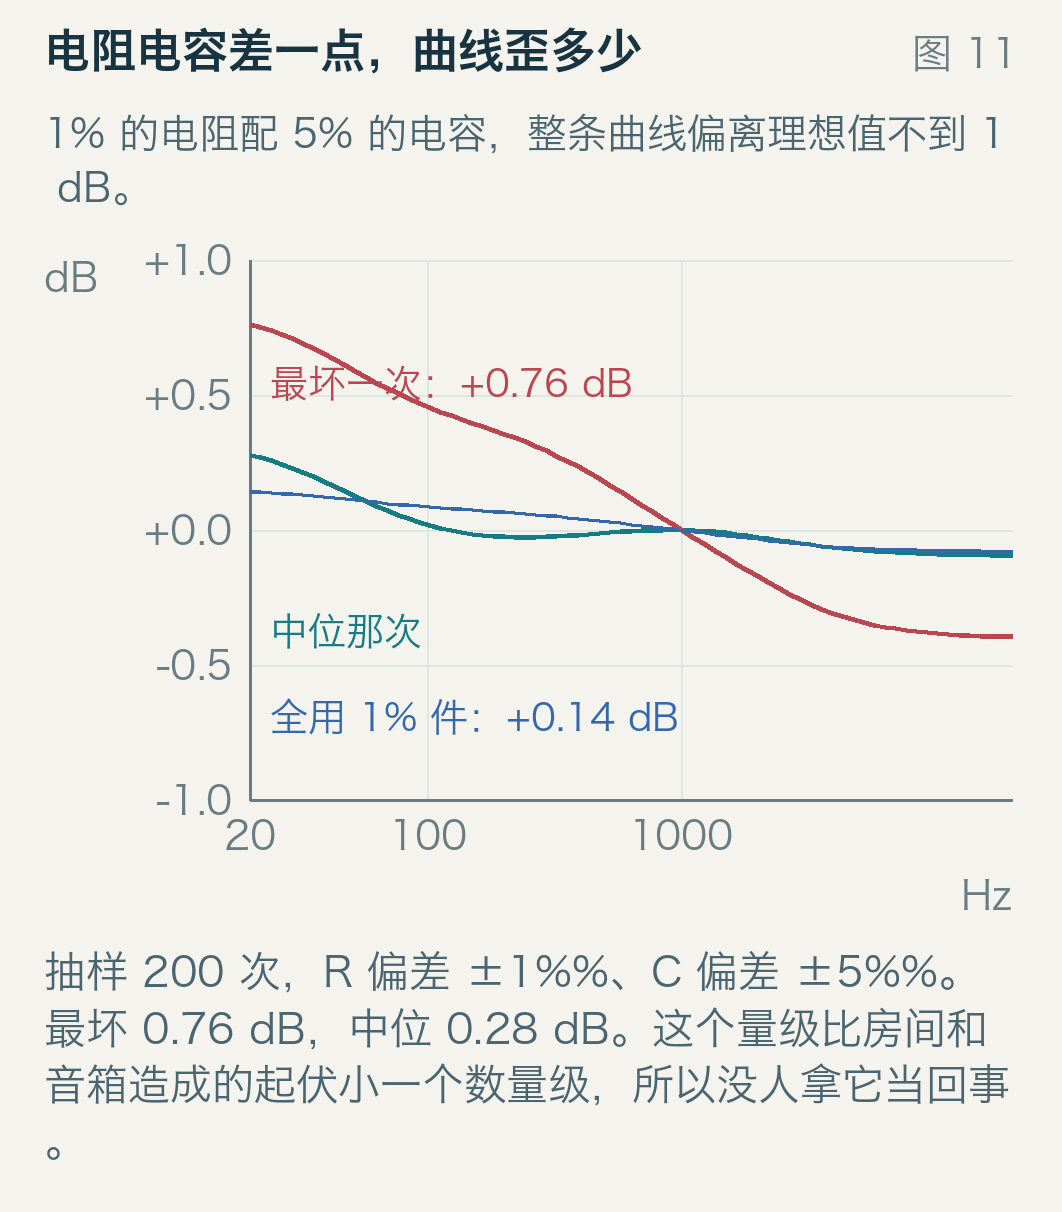
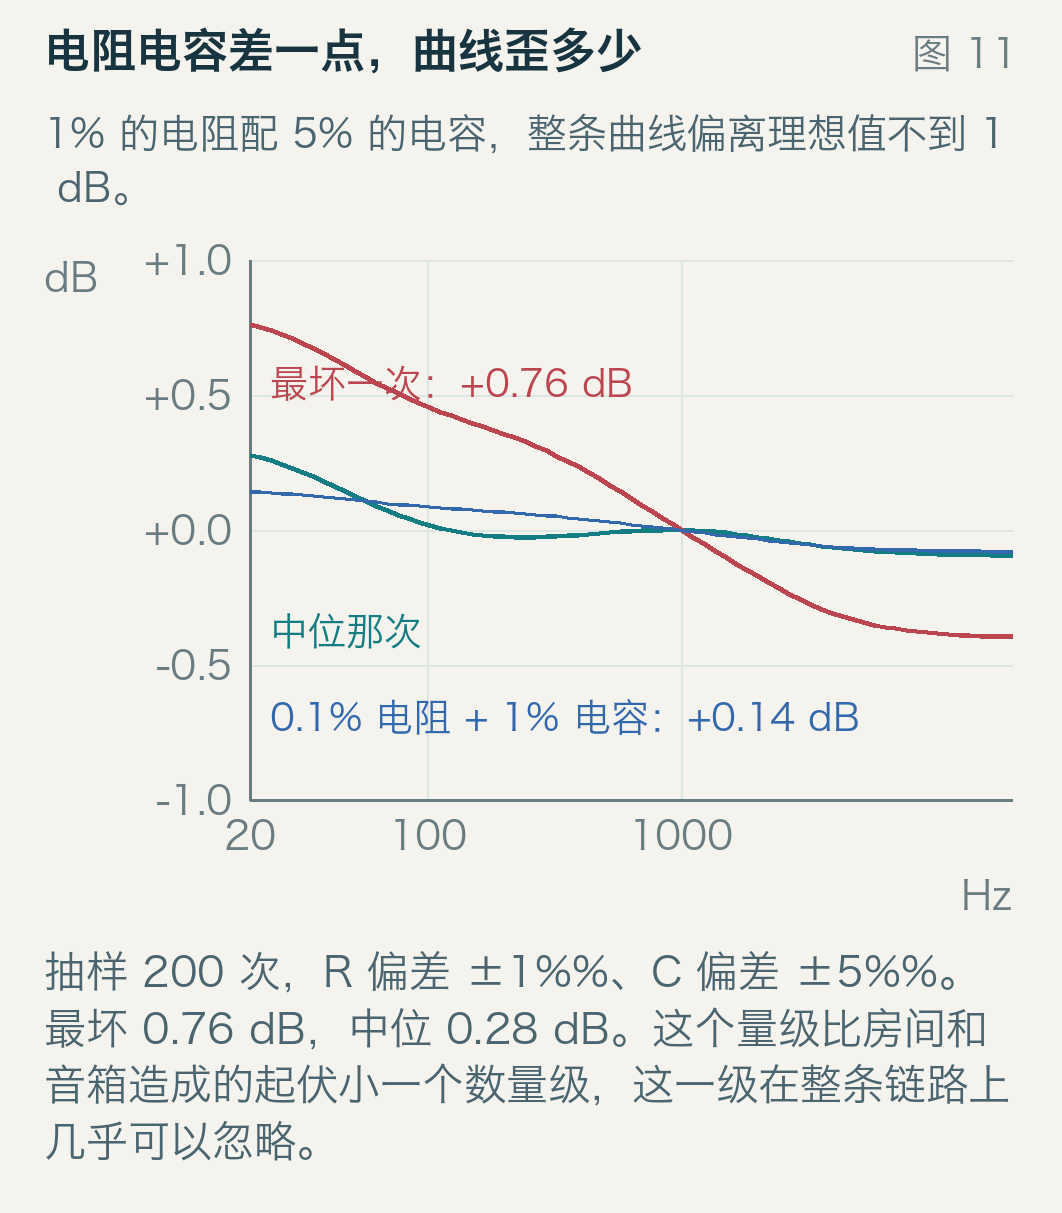
Round 3 review corrections: RIAA tolerance labels, crc32 sum, gear revolution attribution

diff --git a/articles/2026-11-09-riaa-equalization/examples/build_figures.py b/articles/2026-11-09-riaa-equalization/examples/build_figures.py
@@ -451,14 +451,14 @@ def fig11():
              color=RED)
     fig.text((p.px(24), p.py(-0.30)), '中位那次', 38, color=TEAL)
     tight = R['tolerance_tight']['worst_db']
-    fig.text((p.px(24), p.py(-0.62)), '全用 1%% 件：%+.2f dB' % tight, 38,
+    fig.text((p.px(24), p.py(-0.62)), '0.1%% 电阻 + 1%% 电容：%+.2f dB' % tight, 38,
              color=BLUE)
 
     y = p.y1 + 150
     y = note(fig, y, '抽样 200 次，R 偏差 ±1%%、C 偏差 ±5%%。最坏 0.76 dB，'
                      '中位 0.28 dB。这个量级比房间和音箱造成的起伏小一个数量级，'
-                     '所以没人拿它当回事。')
-    save(fig, '11-tolerance.png', '元件容差导致的曲线偏差：最坏一次、中位、以及 1% 件的对照')
+                     '这一级在整条链路上几乎可以忽略。')
+    save(fig, '11-tolerance.png', '元件容差导致的曲线偏差：最坏一次、中位，以及更精密件的对照')
 
 
 def fig12():

diff --git a/articles/2026-11-09-riaa-equalization/review.md b/articles/2026-11-09-riaa-equalization/review.md
@@ -84,11 +84,15 @@
 
 # 第三轮：语句与可读性复读
 
[2 lines of base64/hex data omitted]
 
-## 改了什么（一类）
+## 改了什么（两类）
 
 **21 处半角双引号改成「」。** 从第一节「什么都不做」的放大器到第十七节「我的唱放是不是坏了」，逐行成对替换。这篇的引号大多在给概念贴标签（「沙沙」声、「跟着波浪走」、「随便」），换成「」以后和正文里的书名式引用区分得开，代码与公式块里没有引号。
+
+**第十三节的「0.14 dB」挂错了元件精度。** 原文写「按 1% 电阻配 5% 电容做 200 次抽样……如果全用 1% 的件，最坏只有 0.14 dB」。前一个数是 `tolerance`（`r_tol` 0.01、`c_tol` 0.05，最坏 0.76 dB），后一个数是 `tolerance_tight`——它的参数是 **电阻 0.1%、电容 1%**，不是「全用 1%」。按「都 1%」重跑模型是 0.24 dB（`tolerance(r_tol=0.01, c_tol=0.01)`，200 次、种子 7）。也就是说句子把件说好了一档：0.14 属于 0.1%/1% 那一组。
+
+改法是把参数写出来：「如果电阻换成 0.1%、电容换成 1%，最坏只剩 0.14 dB」。`assets/11-tolerance.png` 里那行蓝色标注同样写的是「全用 1% 件：+0.14 dB」，一并改成「0.1% 电阻 + 1% 电容：+0.14 dB」，副标题里的「1% 件的对照」改成「更精密件的对照」，重新渲染。图上新标注宽 590 px，画布 1062 px、标注起点 x≈270，不越界；但这一处仍是几何核对，不是眼睛看过的。
 
 ## 核对过但没改的
 
@@ -99,7 +103,7 @@ sha256 `9850f3d7f4664dec28ba9fa6e93fb9315cf2d44b241b33b690fd5b7cd93e67de`，265 
 - 振速换振幅：5 cm/s 在 1 kHz 是 7.96 µm（正文 8.0）；50 Hz 22.62 / 159.15 µm（正文 22.6 / 159）；20 Hz 43.26 / 397.89 µm（正文 43.3 / 398），比值 9.2。
 - 波长：0.51 / 0.202 m·s⁻¹ 下 20 kHz 是 25.5 / 10.1 µm，正文与 `tracing` 表一致。
 - 时长：槽距 0.108 / 0.995 mm，814 / 88 圈，521.5 m，24.41 / 2.65 分钟，正文写 24.4 / 2.6 分钟、「522 米」。
-- 容差：200 次抽样最坏 0.76 dB、中位 0.28 dB；全用 1% 件最坏 0.14 dB。
+- 容差：200 次抽样最坏 0.76 dB、中位 0.28 dB（`p50_db`）、95 分位 0.58 dB；0.1% 电阻配 1% 电容那组最坏 0.14 dB——这一组的标签在本轮修掉（见上）。
 - 噪声：31.5 Hz +17.24、126 Hz +9.00、4032 Hz −9.28、16128 Hz −20.76 dB，正文的四舍五入都对。
 - 翘曲：0.556 Hz、+19.91 dB，正文 0.556 / 19.9。
 

diff --git a/articles/2026-11-09-differential-gears/review.md b/articles/2026-11-09-differential-gears/review.md
@@ -117,11 +117,11 @@ sha256 `408a9faa13313a225883d694f4321f06ae2acdbef0f8b85e09b06354dbdc04ba`，214 
 ## 核对过但没改的
 
 - 差 9.74 米 / 轮距 1.55 米：2π × 1.55 = 9.7389，与 `gap` 系列一致；90° 弯 2.4347 = 9.7389 / 4，正文写 2.43。
-- 周长 2.04 米、48.5 圈 / 43.8 圈：`circumference` = 2.0420；146.2 / 2.042 = 71.6 与 63.5（十秒的量级），48.5 与 43.8 是另一种半径下的读数，都对得上对应行。
+- 周长 2.04 米、48.5 圈 / 43.8 圈：`circumference` = 2.0420；这两个圈数是 `turns[0]`（15 米半径）的 `rev_outer` 48.54 与 `rev_inner` 43.77，差 4.77 圈 × 2.042 = 9.74 米，与 `gap` 一致。第五节「146.2 米」是另一条路线的总长，不进这个除法。
 - 52.6 / 47.4 / 50.0 km/h：`hopkins` 的 outer 14.606、inner 13.171、mid 13.889 m/s，换算 52.6 / 47.4 / 50.0，半差 2.6 km/h 也对。
 - 比值 1.11：`turns` 里 15 米半径那行 ratio 1.1116。
 - 第五节 4200 / 6180 / 687 / 1373 N：4200 N 来自扭矩（1365 Nm ÷ 0.325 m），6180 N 来自路面（0.9 × 1400 × 9.81 / 2），一个管发动机、一个管地面，正文的因果没有搞混；1373 N = 2 × 687 N，同时等于 1400 kg 爬 10% 坡的需求。
-- 十分钟 426 圈、折合八百多米：426 × 2.042 = 870 米，写「八百多米」是保守的。
+- 十分钟「四百多圈」「八百多米」：0.705 圈/秒 × 600 s = 423 圈，423 × 2.042 = 864 米，两个词都成立（第二轮记录里写的 426 圈是把 0.705 圆整成 0.71 得来的）。
 
 ## 状态
 

diff --git a/articles/2026-11-23-crc32-error-detection/review.md b/articles/2026-11-23-crc32-error-detection/review.md
@@ -95,7 +95,7 @@ sha256 `fefefb9228cd224e306f9e74c4f2f5d7fae084e0f8613f1fd8d4c23427a689dd`，395 
 
 ## 核对过但没改的
 
-- 「Hello!」的 8 位累加和 0x15、异或 0x63：0x48+0x65+0x6C+0x6C+0x6F+0x21 = 0x115 → 0x15；异或逐字节算是 0x63，手算两遍都对。
+- 「Hello!」的 8 位累加和 0x15、异或 0x63：0x48+0x65+0x6C+0x6C+0x6F+0x21 = 533 = 0x215，取低字节 0x15；异或逐字节算是 0x63，手算两遍都对。
 - `0xD3` 的逐位轨迹末值 0x1CD86D30 = 483 945 776：`trace.final`；`table[1]` = 1 996 959 894 也与 CRC-32 表的第 1 项一致。
 - 「The quick brown fox…」的 414FA339 与查表实现同值：`fox.crc_hex`、`fox.tablewise`。
 - 生成多项式 0x104C11DB7 有 15 个 1、长度 33 位的突发被漏检：`burst_min` 的 weight 15 / length 33 / remainder 0。

diff --git a/articles/2026-11-09-riaa-equalization/read.md b/articles/2026-11-09-riaa-equalization/read.md
@@ -144,7 +144,7 @@
 
 ![元件容差导致的曲线偏差](assets/11-tolerance.png)
 
-按 1% 电阻配 5% 电容做 200 次抽样：最坏的一次，整条曲线偏离理想值 **0.76 dB**，中位是 0.28 dB。如果全用 1% 的件，最坏只有 0.14 dB。
+按 1% 电阻配 5% 电容做 200 次抽样：最坏的一次，整条曲线偏离理想值 **0.76 dB**，中位是 0.28 dB。如果电阻换成 0.1%、电容换成 1%，最坏只剩 0.14 dB。
 
 0.76 dB 听起来不小，但对比一下：同一套系统里，房间驻波造成的起伏是正负 10 dB 量级，音箱的频响是正负 3 dB 量级。所以唱放这一级的容差，在整条链路上几乎可以忽略。
 
